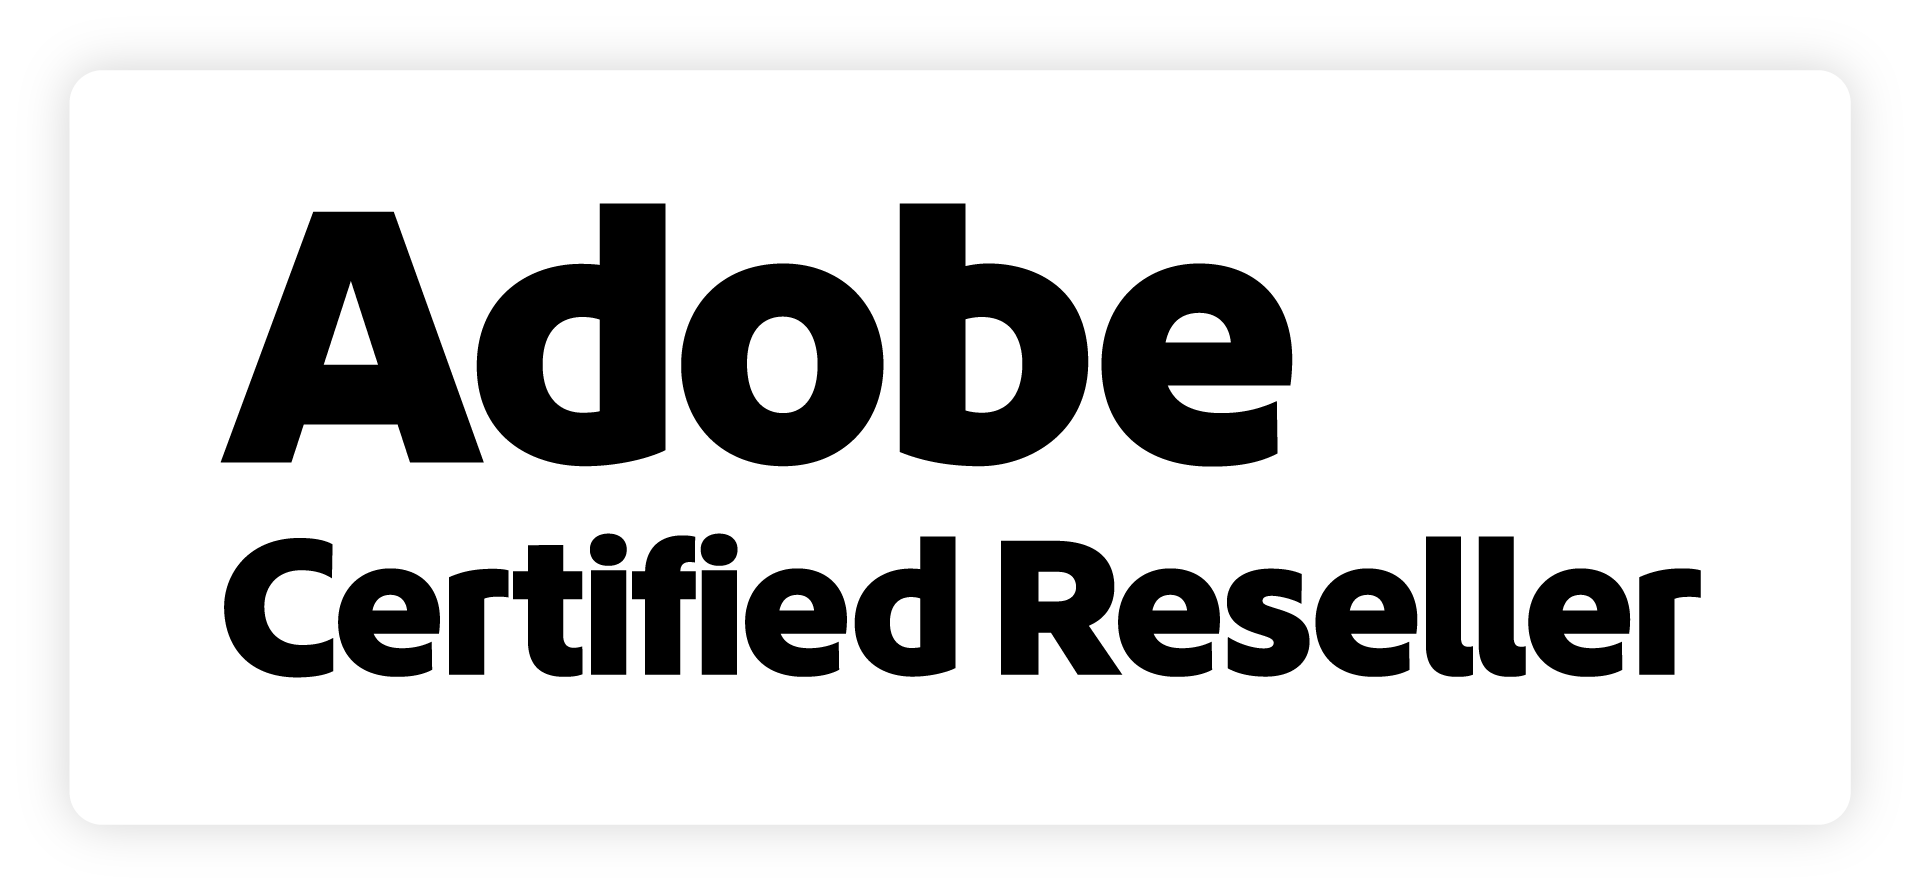
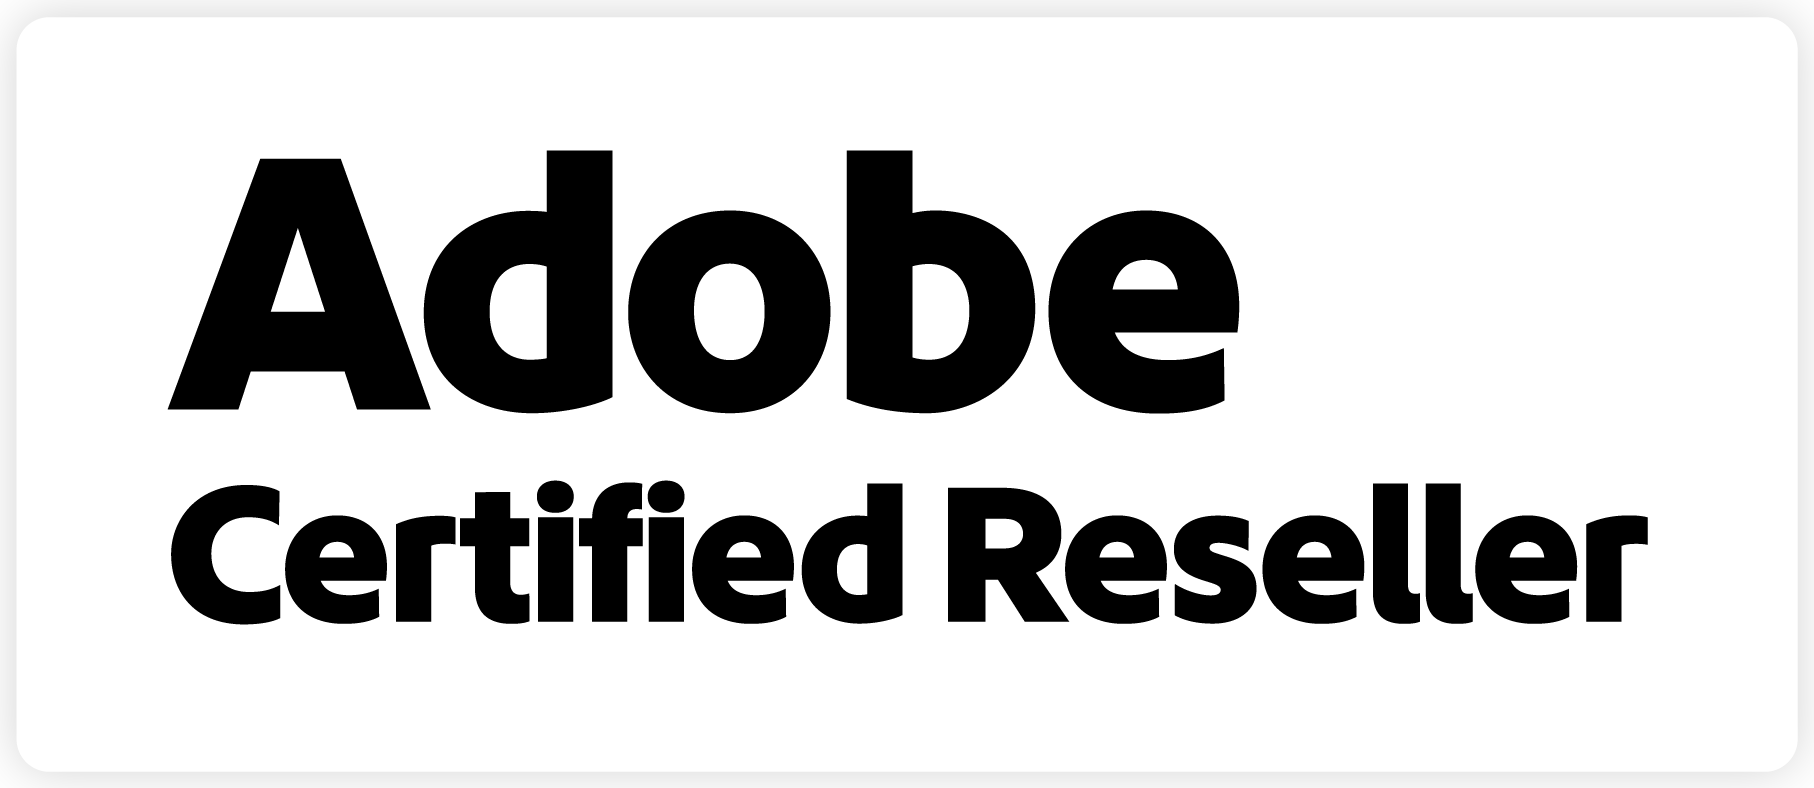
Line the partner badges up
Two faults, both visible in the footer.

Sizing was by width, and the badges are not the same shape — Microsoft's is
nearly four times as wide as it is tall, Adobe's a little over twice — so equal
widths gave unequal heights and the row read as broken. Height is now fixed and
width follows, so the plates match whatever artwork arrives next.

And the Adobe badge carried its own white background: three-quarters of its
opaque pixels were white, inside a 54-pixel transparent margin. Putting that on
the white plate the Microsoft badge needs produced a box inside a box. It is
trimmed to its artwork and flattened, so one plate serves both.

The strip under the header takes the same component, so the top of every page
and the footer now show the same row.

Claude-Session: https://claude.ai/code/session_01TLmP5wTyMtSPV4bHfNWsWz

diff --git a/src/components/partner-badges.tsx b/src/components/partner-badges.tsx
@@ -28,33 +28,40 @@ const BADGES: readonly {
   {
     src: "/badges/adobe-certified-reseller.png",
     alt: "Adobe Certified Reseller",
-    width: 1921,
-    height: 895,
+    width: 1814,
+    height: 788,
   },
 ];
 
 export function PartnerBadges({
   className = "",
-  width = 130,
+  height = 26,
 }: {
   className?: string;
-  /** Rendered width in pixels of each badge. */
-  width?: number;
+  /** Rendered height in pixels. Sized by height, never by width. */
+  height?: number;
 }) {
-  if (BADGES.length === 0) return null;
-
   return (
     <ul className={`flex flex-wrap items-center gap-2 ${className}`}>
       {BADGES.map((badge) => (
-        <li key={badge.src} className="rounded-md bg-white px-2.5 py-1.5">
+        // Every badge is a different shape — Microsoft's is nearly four times
+        // as wide as it is tall, Adobe's a little over twice. Sizing by width
+        // therefore made them different heights and the row looked broken.
+        // Height is fixed and width follows, so the plates line up whatever
+        // artwork arrives next.
+        <li
+          key={badge.src}
+          className="flex items-center rounded-md bg-white px-2.5"
+          style={{ height: height + 14 }}
+        >
           <Image
             src={badge.src}
             alt={badge.alt}
             width={badge.width}
             height={badge.height}
-            sizes={`${width}px`}
-            className="h-auto"
-            style={{ width }}
+            sizes={`${Math.round((height * badge.width) / badge.height)}px`}
+            className="w-auto"
+            style={{ height }}
           />
         </li>
       ))}
@@ -76,7 +83,7 @@ export function PartnerStrip() {
         <p className="text-[12px] font-semibold uppercase tracking-wide text-faint">
           Authorised reseller
         </p>
-        <PartnerBadges width={112} />
+        <PartnerBadges height={22} />
         <p className="text-[12px] text-muted">
           Genuine licences, supplied under the publisher&apos;s own end-user
           terms.

diff --git a/src/components/assurance.tsx b/src/components/assurance.tsx
@@ -83,8 +83,8 @@ export function Assurance({
           <Image
             src="/badges/adobe-certified-reseller.png"
             alt="Adobe Certified Reseller"
-            width={1921}
-            height={895}
+            width={1814}
+            height={788}
             sizes="140px"
             className="h-auto w-[140px]"
           />

diff --git a/src/components/footer.tsx b/src/components/footer.tsx
@@ -153,7 +153,7 @@ export async function Footer() {
               terms — Vertex Infosolutions is an authorised reseller, not the
               licensor.
             </p>
-            <PartnerBadges className="mt-4" width={150} />
+            <PartnerBadges className="mt-4" height={30} />
           </div>
         </div>
 
